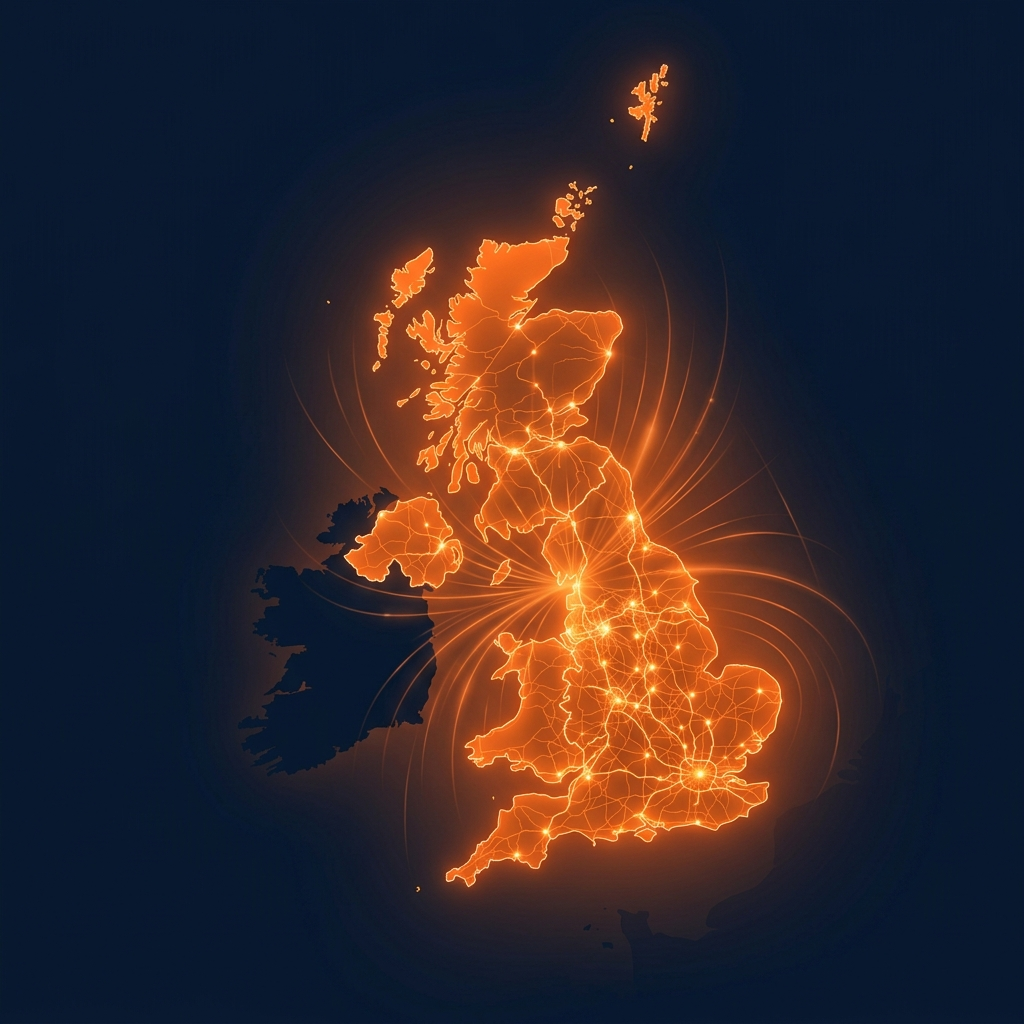
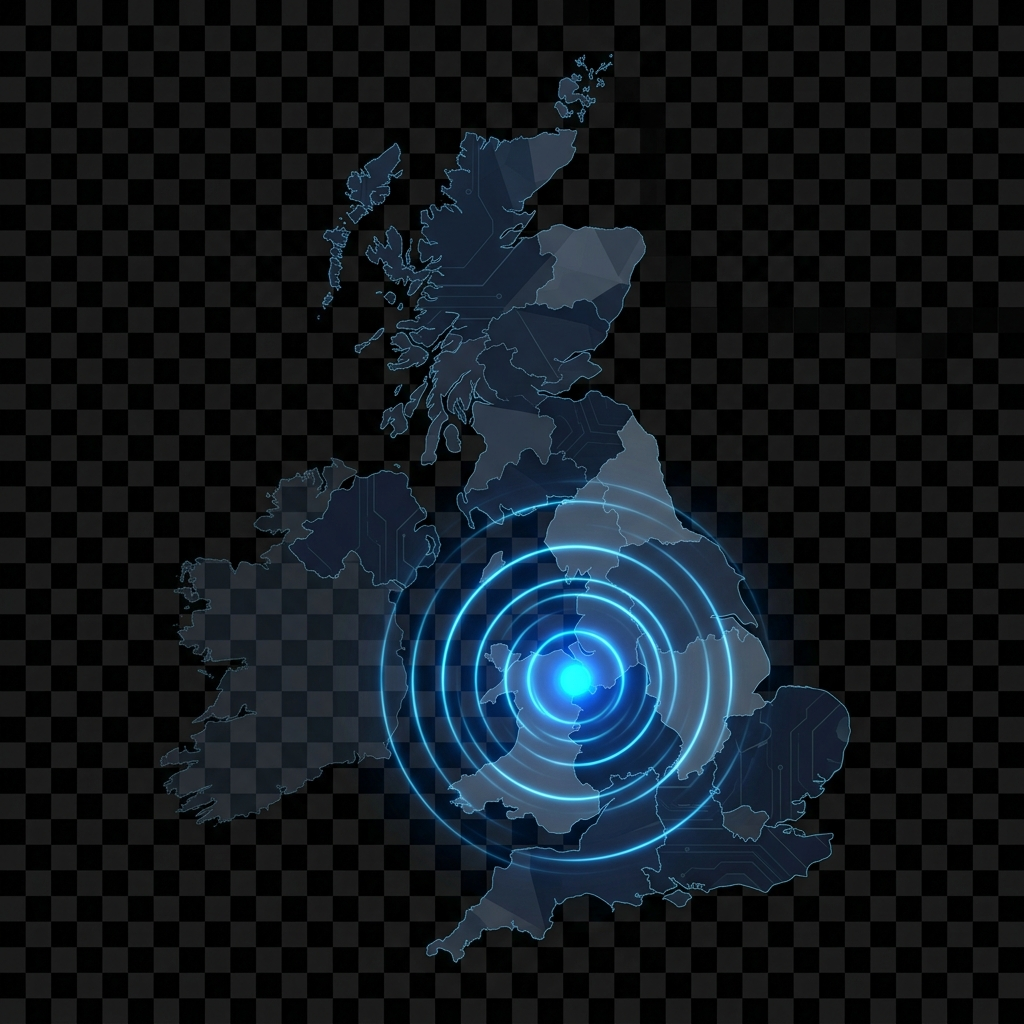
fix: Update coverage map origin to Wrexham and normalize section background colors

diff --git a/index.html b/index.html
@@ -873,7 +873,7 @@
 </section>
 
 <!-- ═══════════════ Our Process ═══════════════ -->
-<section id="process" style="padding: 100px 5%; background: #0A1925; border-top: 1px solid rgba(255,255,255,0.05); text-align: center;">
+<section id="process" style="padding: 100px 5%; background: var(--bg); border-top: 1px solid rgba(255,255,255,0.05); text-align: center;">
   <p class="section-eyebrow">Our Process</p>
   <h2 class="section-title">End-to-End Compliance Delivery</h2>
   <p style="color: var(--text-secondary); max-width: 600px; margin: 0 auto; line-height: 1.8;">We handle everything from the initial water pressure test to the final handover certificate, ensuring a seamless experience for your accountable person.</p>
@@ -937,7 +937,7 @@
 </section>
 
 <!-- ═══════════════ Nationwide Coverage ═══════════════ -->
-<section id="coverage" style="padding: 100px 5%; background: #0A1925; border-top: 1px solid rgba(255,255,255,0.05);">
+<section id="coverage" style="padding: 100px 5%; background: var(--bg); border-top: 1px solid rgba(255,255,255,0.05);">
   <div style="max-width: 1200px; margin: 0 auto; display: flex; align-items: stretch; gap: 80px; flex-wrap: wrap;">
     <div style="flex: 1; min-width: 300px; display: flex; justify-content: center; align-items: center;">
       <img src="assets/uk_coverage_map.png" alt="Map showing nationwide UK coverage for residential fire sprinkler installations" style="width: 100%; height: 100%; min-height: 400px; object-fit: contain; display: block;">
